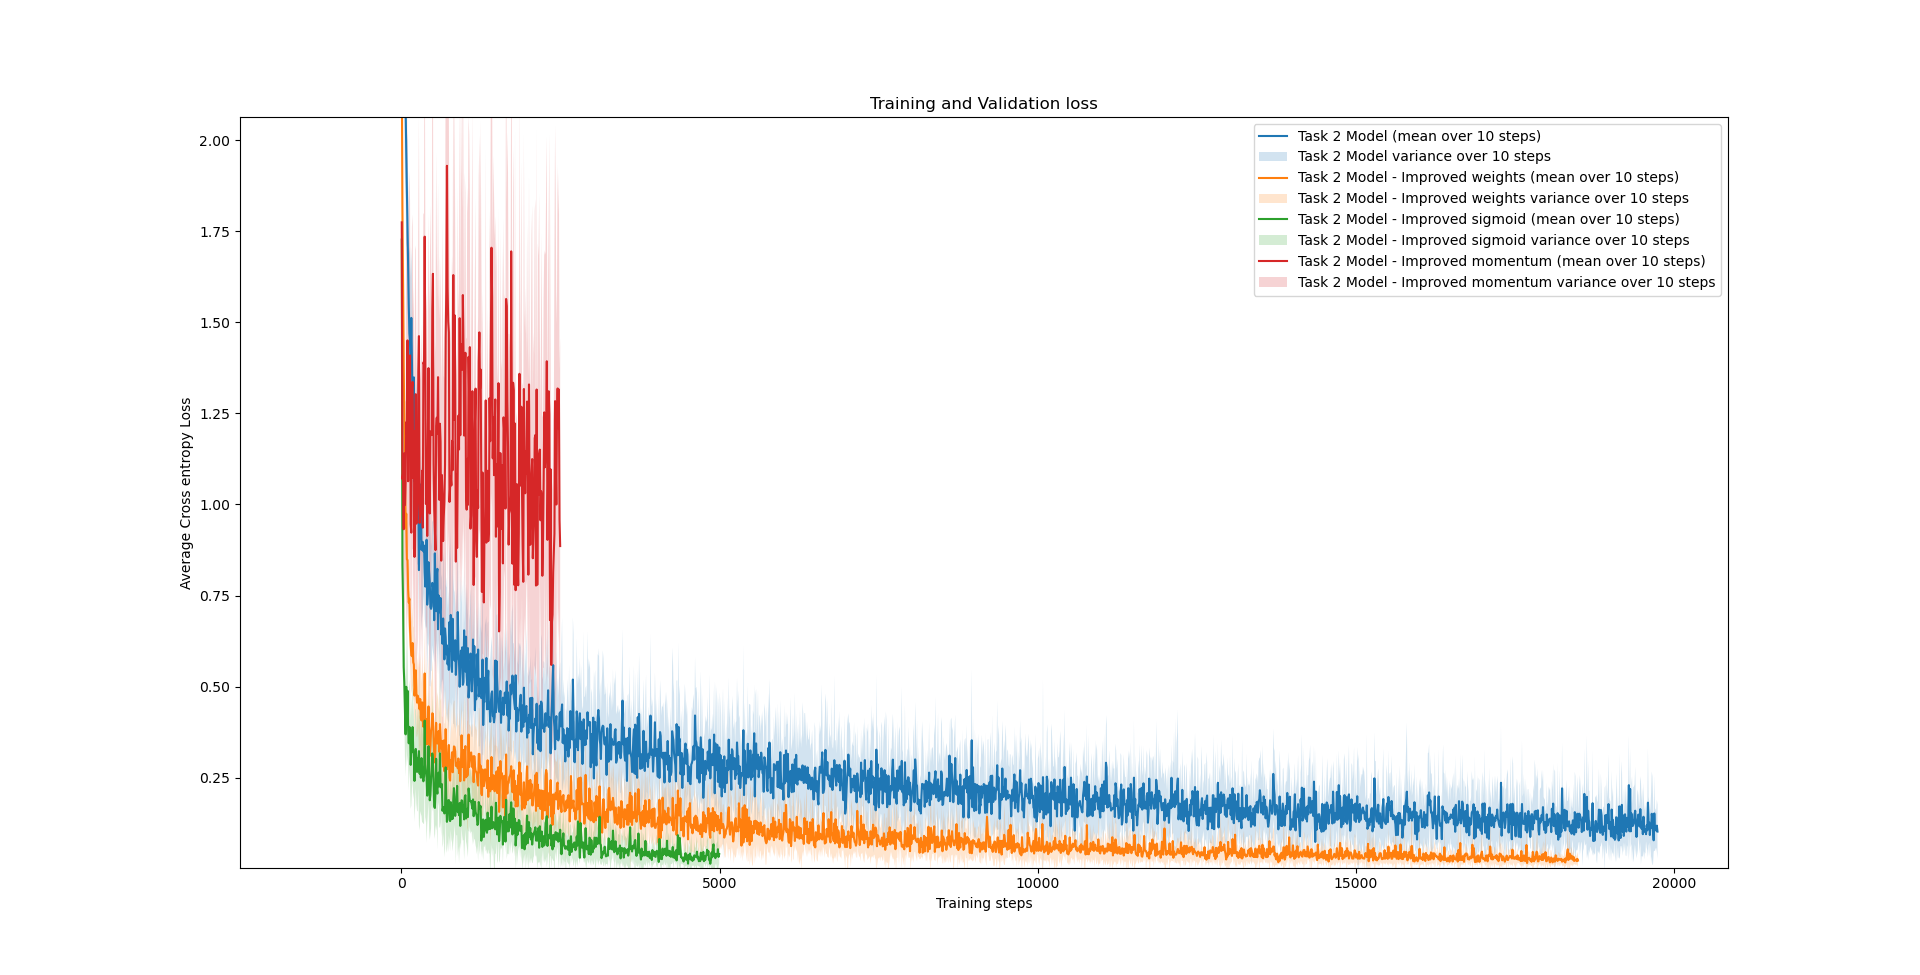
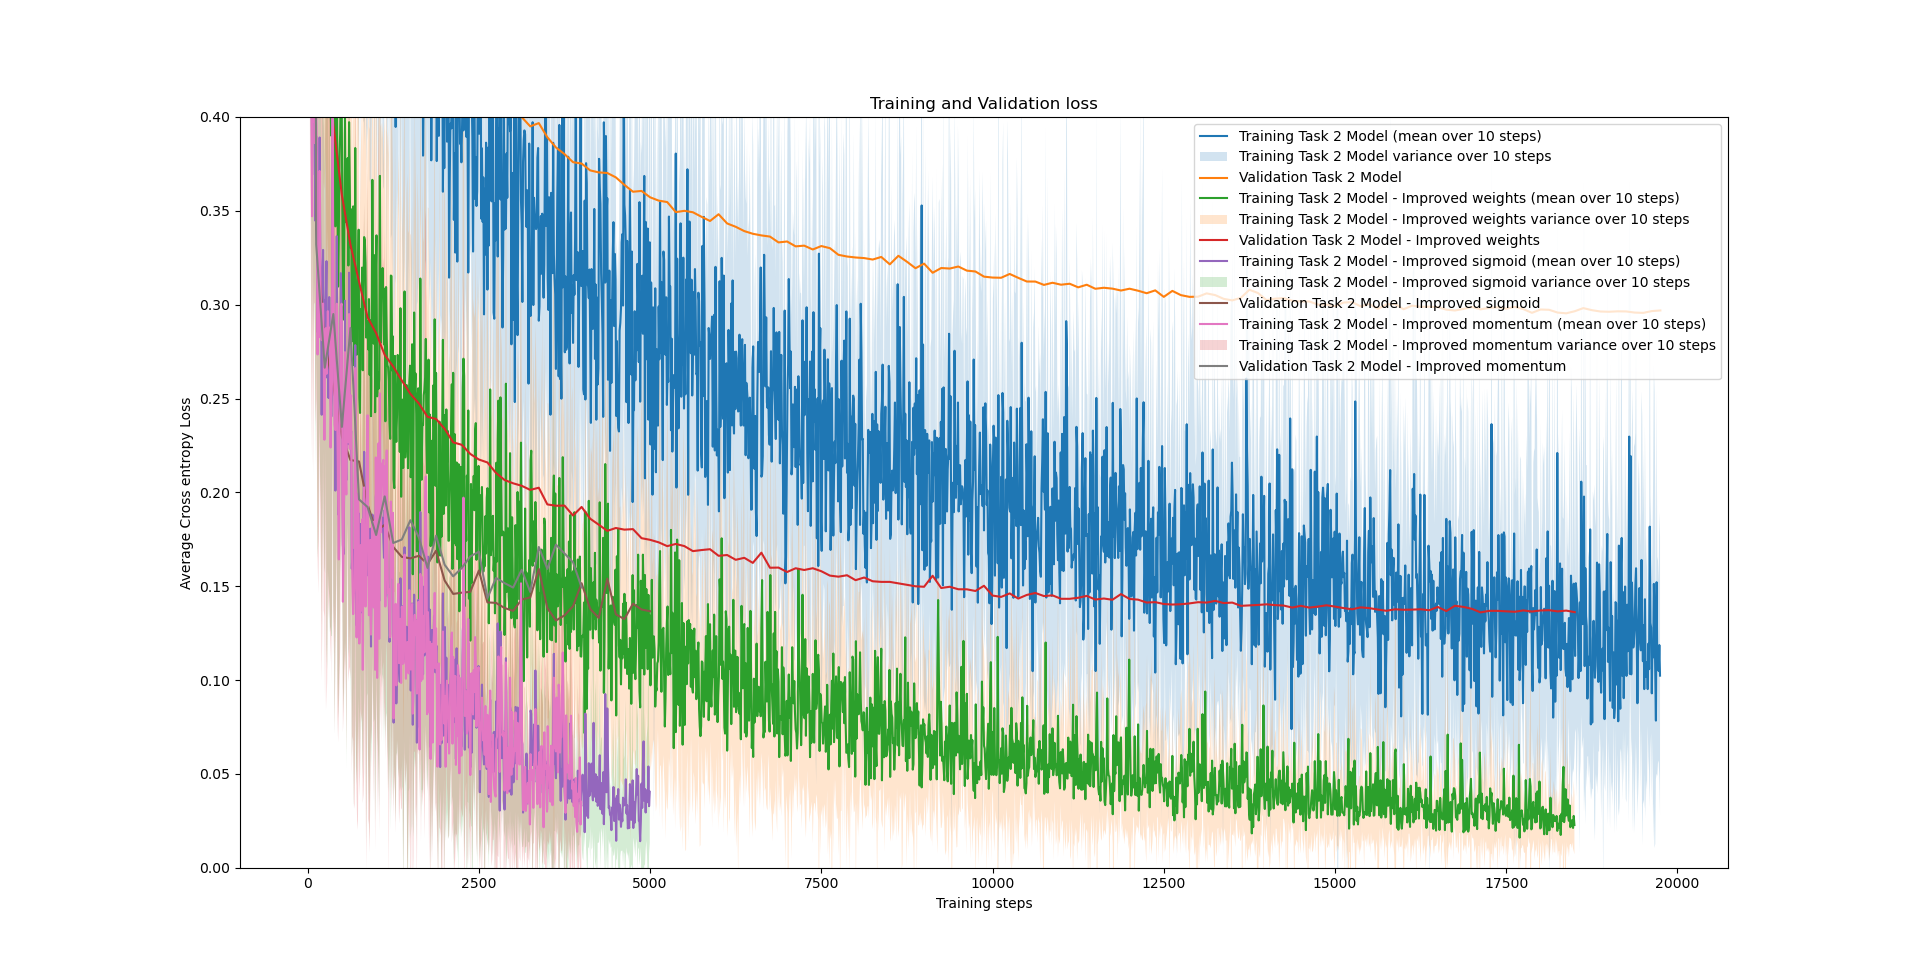
Task 4ab finish

diff --git a/assignment2/task4ab.py b/assignment2/task4ab.py
@@ -1,0 +1,119 @@
+import utils
+import matplotlib.pyplot as plt
+from task2a import pre_process_images, one_hot_encode, SoftmaxModel
+from task2 import SoftmaxTrainer
+
+
+def main():
+    # hyperparameters DO NOT CHANGE IF NOT SPECIFIED IN ASSIGNMENT TEXT
+    num_epochs = 50
+    learning_rate = .02
+    
+    batch_size = 32
+    momentum_gamma = .9  # Task 3 hyperparameter
+    shuffle_data = True
+
+    use_improved_sigmoid = True
+    use_improved_weight_init = True
+    use_momentum = True
+    use_relu = False
+
+    # Load dataset
+    X_train, Y_train, X_val, Y_val = utils.load_full_mnist()
+    X_train = pre_process_images(X_train)
+    X_val = pre_process_images(X_val)
+    Y_train = one_hot_encode(Y_train, 10)
+    Y_val = one_hot_encode(Y_val, 10)
+
+    #64 neurons
+    neurons_per_layer = [64, 10]
+
+    model = SoftmaxModel(
+        neurons_per_layer,
+        use_improved_sigmoid,
+        use_improved_weight_init,
+        use_relu)
+    trainer = SoftmaxTrainer(
+        momentum_gamma, use_momentum,
+        model, learning_rate, batch_size, shuffle_data,
+        X_train, Y_train, X_val, Y_val,
+    )
+    train_history_64, val_history_64 = trainer.train(num_epochs)
+
+
+    #model trained with 32 layers
+
+    neurons_per_layer = [32, 10]
+
+
+    model_weights = SoftmaxModel(
+        neurons_per_layer,
+        use_improved_sigmoid,
+        use_improved_weight_init,
+        use_relu)
+    trainer_weights = SoftmaxTrainer(
+        momentum_gamma, use_momentum,
+        model_weights, learning_rate, batch_size, shuffle_data,
+        X_train, Y_train, X_val, Y_val,
+    )
+
+    train_history_32, val_history_32 = trainer_weights.train(num_epochs)
+    
+    #model trained 128
+    neurons_per_layer = [128, 10]
+
+    model_sigmoid = SoftmaxModel(
+        neurons_per_layer,
+        use_improved_sigmoid,
+        use_improved_weight_init,
+        use_relu)
+    trainer_sigmoid = SoftmaxTrainer(
+        momentum_gamma, use_momentum,
+        model_sigmoid, learning_rate, batch_size, shuffle_data,
+        X_train, Y_train, X_val, Y_val,
+    )
+    
+    train_history_128, val_history_128 = trainer_sigmoid.train(num_epochs)
+    
+    
+    #plt.subplot(1, 2, 1)
+    plt.title("Training and Validation loss")
+
+    utils.plot_loss(train_history_64["loss"],
+                    "Training Task 2 Model 64 units", npoints_to_average=10)
+    utils.plot_loss(val_history_64["loss"], ("Validation Task 2 Model 64 units"))
+
+
+    utils.plot_loss(
+        train_history_32["loss"], "Training Task 2 Model 32 units", npoints_to_average=10)
+    utils.plot_loss(val_history_32["loss"], ("Validation Task 2 Model 32 units"))
+
+    utils.plot_loss(
+        train_history_128["loss"], "Training Task 2 Model 128 units", npoints_to_average=10)
+    utils.plot_loss(val_history_128["loss"], ("Validation Task 2 Model 128 units"))
+    
+    plt.ylim([0, .4])
+    plt.xlabel("Training steps")
+    plt.ylabel("Average Cross entropy Loss")
+    plt.legend()
+    #plt.savefig("task3a_loss.png")
+    plt.show()
+    #plt.subplot(1, 2, 2)
+    plt.ylim([0.85, .95])
+    utils.plot_loss(val_history_64["accuracy"], "Task 2 Model 64 units")
+    utils.plot_loss(train_history_64["accuracy"], "Task 2 Model 64 units")
+    utils.plot_loss(val_history_32["accuracy"], "Task 2 Model 32 units")
+    utils.plot_loss(train_history_32["accuracy"], ("Training Task 2 Model 32 units"))
+     
+    utils.plot_loss(val_history_128["accuracy"], "Task 2 Model 128 units")
+    utils.plot_loss(train_history_128["accuracy"], ("Training Task 2 Model 128 units"))
+    
+    plt.xlabel("Training steps")
+    plt.ylabel("Validation Accuracy")
+    plt.legend()
+    #plt.savefig("task3a_acc.png")
+    plt.show()
+
+
+if __name__ == "__main__":
+    main()
